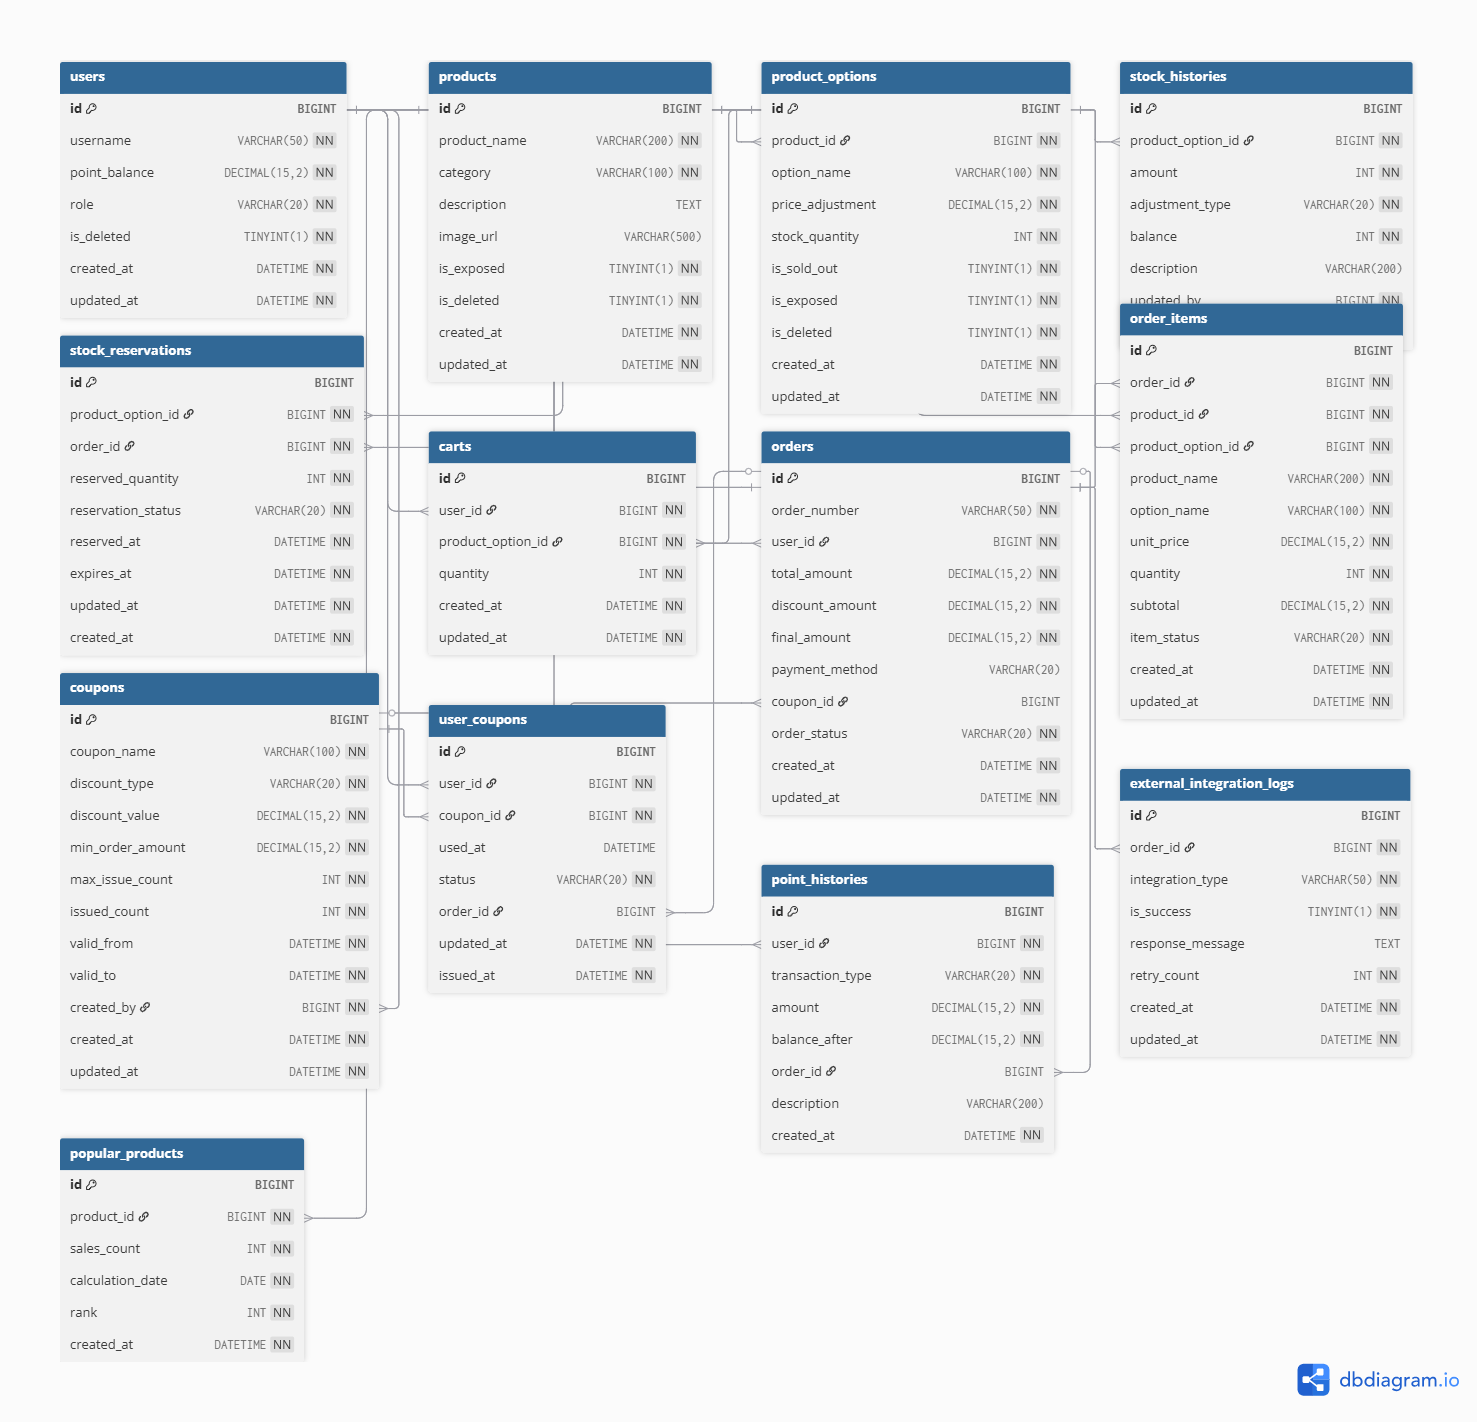
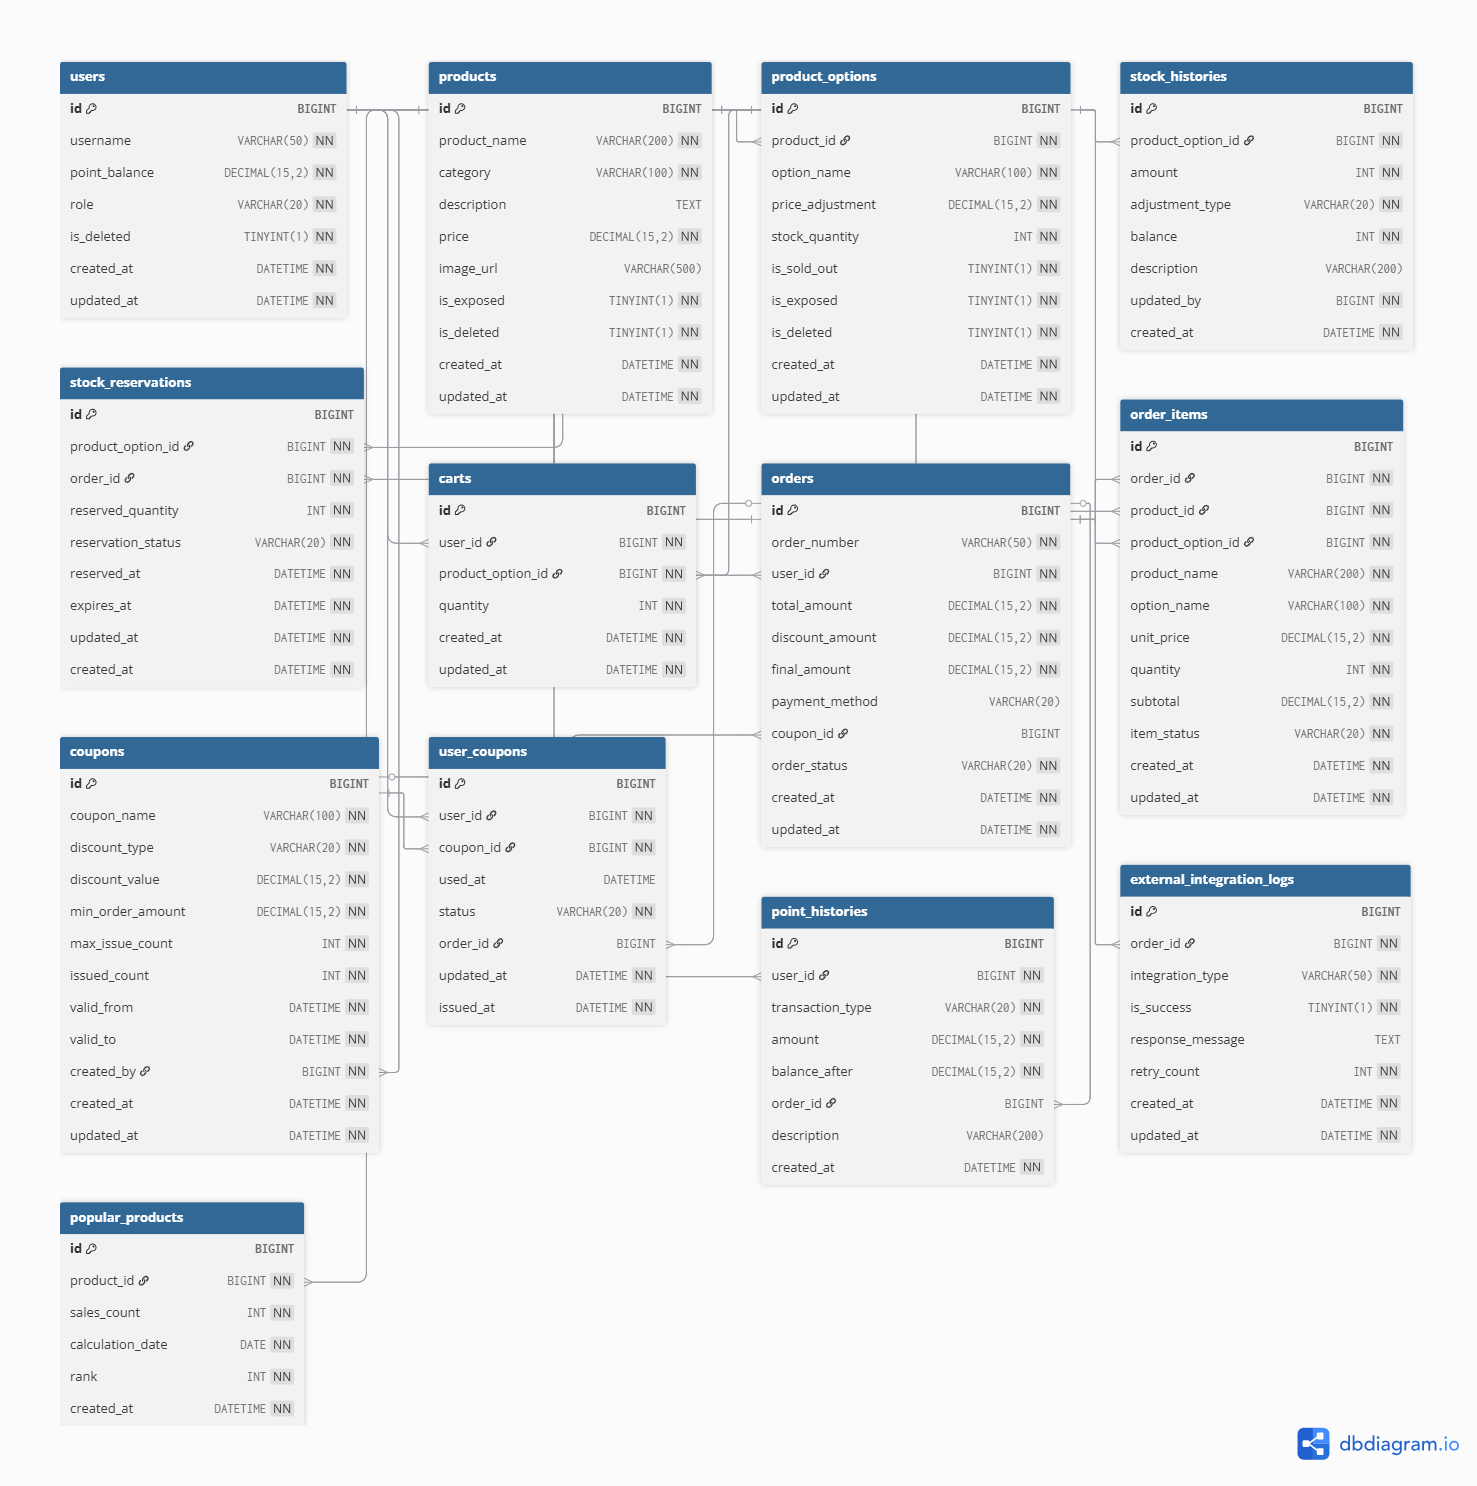
feat : order 도메인에 usedPoint 제거, 금액 관련 Long 타입 -> BigDecimal 타입으로 통일, 구조 변경 시 누락 파일 추가

diff --git a/src/main/java/hhplus/ecommerce/order/application/service/PaymentService.java b/src/main/java/hhplus/ecommerce/order/application/service/PaymentService.java
@@ -7,6 +7,7 @@ import hhplus.ecommerce.order.domain.repository.OrderItemRepository;
 import hhplus.ecommerce.order.domain.repository.OrderRepository;
 import hhplus.ecommerce.order.presentation.dto.request.PaymentRequest;
 import hhplus.ecommerce.order.presentation.dto.response.PaymentResponse;
+import hhplus.ecommerce.order.domain.model.PaymentMethod;
 import hhplus.ecommerce.point.application.service.PointService;
 import hhplus.ecommerce.product.application.service.StockService;
 import hhplus.ecommerce.product.domain.model.StockReservation;
@@ -26,13 +27,13 @@ public class PaymentService {
     private final OrderRepository orderRepository;
     private final OrderItemRepository orderItemRepository;
     private final StockReservationRepository stockReservationRepository;
-    private final PointService pointService;
     private final StockService stockService;
+    private final PointService pointService;
 
     /**
      * 주문 결제
      * @param orderId 주문 ID
-     * @param request 결제 요청 (결제 수단, 사용 포인트)
+     * @param request 결제 요청 (결제 수단)
      * @return 결제 완료 응답
      */
     @Transactional
@@ -51,10 +52,12 @@ public class PaymentService {
             throw OrderException.orderItemsEmpty();
         }
 
-        // 3. 포인트 사용 처리
-        if (request.getUsedPoints() != null && request.getUsedPoints() > 0) {
-            BigDecimal usedPoints = BigDecimal.valueOf(request.getUsedPoints());
-            pointService.usePoint(order.getUserId(), usedPoints, orderId, "주문 결제");
+        // 3. 결제 수단 파싱 및 검증
+        PaymentMethod method;
+        try {
+            method = PaymentMethod.valueOf(request.getPaymentMethod().toUpperCase());
+        } catch (Exception e) {
+            throw OrderException.invalidPaymentMethod(request.getPaymentMethod());
         }
 
         // 4. 재고 예약 확정 (각 주문 항목에 대해)
@@ -67,17 +70,23 @@ public class PaymentService {
             stockService.confirmStockReservation(reservation.getStockReservationId());
         }
 
-        // 5. 주문 상태 업데이트 (PAID)
-        Order paidOrder = order.pay();
+        // 5. 포인트 결제 처리 (필요 시)
+        if (method == PaymentMethod.POINT) {
+            BigDecimal amount = order.getFinalAmount();
+            pointService.usePoint(order.getUserId(), amount, orderId, "주문 결제");
+        }
+
+        // 6. 주문 상태 업데이트 (PAID) 및 결제수단 반영
+        Order paidOrder = order.payWithMethod(method);
         orderRepository.save(paidOrder);
 
-        // 6. 결제 결과 반환
+        // 7. 결제 결과 반환
         return new PaymentResponse(
                 paidOrder.getOrderId(),
                 paidOrder.getOrderNumber(),
                 paidOrder.getOrderStatus(),
-                paidOrder.getFinalAmount().longValue(),
-                request.getPaymentMethod(),
+                paidOrder.getFinalAmount(),
+                method.name(),
                 LocalDateTime.now()
         );
     }

diff --git a/src/main/java/hhplus/ecommerce/coupon/infrastructure/repository/InMemoryUserCouponRepository.java b/src/main/java/hhplus/ecommerce/coupon/infrastructure/repository/InMemoryUserCouponRepository.java
@@ -9,10 +9,12 @@ import java.util.Optional;
 import java.util.concurrent.ConcurrentHashMap;
 import java.util.concurrent.atomic.AtomicInteger;
 import java.util.stream.Collectors;
+import hhplus.ecommerce.coupon.domain.model.UserCouponStatus;
 
 @Repository
 public class InMemoryUserCouponRepository implements UserCouponRepository {
     private final ConcurrentHashMap<Long, UserCoupon> storage = new ConcurrentHashMap<>();
+    private final java.util.concurrent.atomic.AtomicLong sequence = new java.util.concurrent.atomic.AtomicLong(1);
 
     // 쿠폰별 발급 수 관리: Coupon ID -> 발급 수
     private final ConcurrentHashMap<Long, AtomicInteger> issueCountMap = new ConcurrentHashMap<>();
@@ -22,11 +24,33 @@ public class InMemoryUserCouponRepository implements UserCouponRepository {
 
     @Override
     public UserCoupon save(UserCoupon userCoupon) {
-        storage.put(userCoupon.getUserCouponId(), userCoupon);
+        Long id = userCoupon.getUserCouponId();
+        if (id == null) {
+            id = sequence.getAndIncrement();
+            try {
+                java.lang.reflect.Field idField = UserCoupon.class.getDeclaredField("userCouponId");
+                idField.setAccessible(true);
+                idField.set(userCoupon, id);
+            } catch (Exception e) {
+                throw new RuntimeException("Failed to set userCouponId via reflection", e);
+            }
+        }
+        storage.put(id, userCoupon);
 
         // 발급 수 증가
         issueCountMap.computeIfAbsent(userCoupon.getCouponId(), k -> new AtomicInteger(0))
                 .incrementAndGet();
+
+        // 발급 시각(issuedAt) 기본값 설정
+        try {
+            if (userCoupon.getIssuedAt() == null) {
+                java.lang.reflect.Field issuedAtField = UserCoupon.class.getDeclaredField("issuedAt");
+                issuedAtField.setAccessible(true);
+                issuedAtField.set(userCoupon, java.time.LocalDateTime.now());
+            }
+        } catch (Exception e) {
+            throw new RuntimeException("Failed to set issuedAt via reflection", e);
+        }
 
         // 중복 발급 체크 인덱스 업데이트
         String indexKey = buildIndexKey(userCoupon.getUserId(), userCoupon.getCouponId());
@@ -49,10 +73,10 @@ public class InMemoryUserCouponRepository implements UserCouponRepository {
     }
 
     @Override
-    public List<UserCoupon> findByUserIdAndIsUsed(Long userId, Boolean isUsed) {
+    public List<UserCoupon> findByUserIdAndStatus(Long userId, UserCouponStatus status) {
         return storage.values().stream()
                 .filter(userCoupon -> userCoupon.getUserId().equals(userId))
-                .filter(userCoupon -> userCoupon.isUsed() == isUsed)
+                .filter(userCoupon -> userCoupon.getStatus() == status)
                 .sorted((uc1, uc2) -> uc2.getIssuedAt().compareTo(uc1.getIssuedAt())) // 최신순
                 .collect(Collectors.toList());
     }

diff --git a/src/main/java/hhplus/ecommerce/order/application/dto/OrderDetailInfo.java b/src/main/java/hhplus/ecommerce/order/application/dto/OrderDetailInfo.java
@@ -1,0 +1,40 @@
+package hhplus.ecommerce.order.application.dto;
+
+import hhplus.ecommerce.order.domain.model.OrderStatus;
+import lombok.Getter;
+
+import java.math.BigDecimal;
+import java.time.LocalDateTime;
+import java.util.List;
+
+/**
+ * 주문 상세 정보 (Application Layer DTO)
+ * 주문과 주문 아이템 정보를 함께 포함
+ */
+@Getter
+public class OrderDetailInfo {
+    private final Long orderId;
+    private final String orderNumber;
+    private final OrderStatus orderStatus;
+    private final BigDecimal totalAmount;
+    private final BigDecimal discountAmount;
+    private final BigDecimal finalAmount;
+    private final List<OrderItemDetailInfo> orderItems;
+    private final LocalDateTime createdAt;
+    private final LocalDateTime expiresAt;
+
+    public OrderDetailInfo(Long orderId, String orderNumber, OrderStatus orderStatus,
+                          BigDecimal totalAmount, BigDecimal discountAmount, BigDecimal finalAmount,
+                          List<OrderItemDetailInfo> orderItems,
+                          LocalDateTime createdAt, LocalDateTime expiresAt) {
+        this.orderId = orderId;
+        this.orderNumber = orderNumber;
+        this.orderStatus = orderStatus;
+        this.totalAmount = totalAmount;
+        this.discountAmount = discountAmount;
+        this.finalAmount = finalAmount;
+        this.orderItems = orderItems;
+        this.createdAt = createdAt;
+        this.expiresAt = expiresAt;
+    }
+}

diff --git a/src/main/java/hhplus/ecommerce/order/infrastructure/repository/InMemoryOrderRepository.java b/src/main/java/hhplus/ecommerce/order/infrastructure/repository/InMemoryOrderRepository.java
@@ -26,12 +26,19 @@ public class InMemoryOrderRepository implements OrderRepository {
     public Order save(Order order) {
         if (order.getOrderId() == null) {
             Order newOrder = new Order(
-                    sequence.incrementAndGet(), order.getOrderNumber(), order.getUserId(), order.getTotalAmount(),
-                    order.getDiscountAmount(), order.getFinalAmount(), order.getCouponId(),
-                    order.getOrderStatus(), order.getExpiresAt()
+                    sequence.incrementAndGet(),
+                    order.getOrderNumber(),
+                    order.getUserId(),
+                    order.getTotalAmount(),
+                    order.getDiscountAmount(),
+                    order.getFinalAmount(),
+                    order.getCouponId(),
+                    order.getPaymentMethod(),
+                    order.getOrderStatus(),
+                    order.getExpiresAt()
             );
             storage.put(newOrder.getOrderId(), newOrder);
-            orderNumberIndex.put(order.getOrderNumber(), order.getOrderId());
+            orderNumberIndex.put(order.getOrderNumber(), newOrder.getOrderId());
             return newOrder;
         }
 

diff --git a/src/main/java/hhplus/ecommerce/order/application/dto/OrderCreationCommand.java b/src/main/java/hhplus/ecommerce/order/application/dto/OrderCreationCommand.java
@@ -1,0 +1,31 @@
+package hhplus.ecommerce.order.application.dto;
+
+import lombok.Getter;
+
+import java.math.BigDecimal;
+import java.util.List;
+
+/**
+ * 주문 생성 커맨드 (Application Layer DTO)
+ * 주문 생성에 필요한 모든 정보를 담음
+ */
+@Getter
+public class OrderCreationCommand {
+    private final Long userId;
+    private final List<OrderItemInfo> orderItems;
+    private final BigDecimal totalAmount;
+    private final BigDecimal discountAmount;
+    private final Long couponId;
+    private final String orderNumber;
+
+    public OrderCreationCommand(Long userId, List<OrderItemInfo> orderItems,
+                               BigDecimal totalAmount, BigDecimal discountAmount,
+                               Long couponId, String orderNumber) {
+        this.userId = userId;
+        this.orderItems = orderItems;
+        this.totalAmount = totalAmount;
+        this.discountAmount = discountAmount;
+        this.couponId = couponId;
+        this.orderNumber = orderNumber;
+    }
+}

diff --git a/src/main/java/hhplus/ecommerce/order/application/usecase/ChangeOrderStatusUseCase.java b/src/main/java/hhplus/ecommerce/order/application/usecase/ChangeOrderStatusUseCase.java
@@ -55,7 +55,7 @@ public class ChangeOrderStatusUseCase {
                         item.getProductName(),
                         item.getOptionName(),
                         item.getQuantity(),
-                        item.getUnitPrice().longValue(),
+                        item.getUnitPrice(),
                         item.getItemStatus()
                 ))
                 .collect(Collectors.toList());
@@ -64,10 +64,9 @@ public class ChangeOrderStatusUseCase {
                 info.getOrderId(),
                 info.getOrderNumber(),
                 info.getOrderStatus(),
-                info.getTotalAmount().longValue(),
-                info.getDiscountAmount().longValue(),
-                info.getFinalAmount().longValue(),
-                info.getUsedPoints().longValue(),
+                info.getTotalAmount(),
+                info.getDiscountAmount(),
+                info.getFinalAmount(),
                 itemResponses,
                 info.getCreatedAt(),
                 info.getExpiresAt()

diff --git a/src/main/java/hhplus/ecommerce/order/application/usecase/GetOrderDetailUseCase.java b/src/main/java/hhplus/ecommerce/order/application/usecase/GetOrderDetailUseCase.java
@@ -46,7 +46,7 @@ public class GetOrderDetailUseCase {
                         item.getProductName(),
                         item.getOptionName(),
                         item.getQuantity(),
-                        item.getUnitPrice().longValue(),
+                        item.getUnitPrice(),
                         item.getItemStatus()
                 ))
                 .collect(Collectors.toList());
@@ -55,10 +55,9 @@ public class GetOrderDetailUseCase {
                 info.getOrderId(),
                 info.getOrderNumber(),
                 info.getOrderStatus(),
-                info.getTotalAmount().longValue(),
-                info.getDiscountAmount().longValue(),
-                info.getFinalAmount().longValue(),
-                info.getUsedPoints().longValue(),
+                info.getTotalAmount(),
+                info.getDiscountAmount(),
+                info.getFinalAmount(),
                 itemResponses,
                 info.getCreatedAt(),
                 info.getExpiresAt()

diff --git a/src/main/java/hhplus/ecommerce/order/application/dto/OrderItemInfo.java b/src/main/java/hhplus/ecommerce/order/application/dto/OrderItemInfo.java
@@ -1,0 +1,31 @@
+package hhplus.ecommerce.order.application.dto;
+
+import lombok.Getter;
+
+import java.math.BigDecimal;
+
+/**
+ * 주문 아이템 정보 (Application Layer DTO)
+ * UseCase와 Service 간 데이터 전달에 사용
+ */
+@Getter
+public class OrderItemInfo {
+    private final Long productId;
+    private final Long productOptionId;
+    private final String productName;
+    private final String optionName;
+    private final int quantity;
+    private final BigDecimal unitPrice;
+    private final BigDecimal subtotal;
+
+    public OrderItemInfo(Long productId, Long productOptionId, String productName,
+                        String optionName, int quantity, BigDecimal unitPrice, BigDecimal subtotal) {
+        this.productId = productId;
+        this.productOptionId = productOptionId;
+        this.productName = productName;
+        this.optionName = optionName;
+        this.quantity = quantity;
+        this.unitPrice = unitPrice;
+        this.subtotal = subtotal;
+    }
+}

diff --git a/src/main/java/hhplus/ecommerce/order/application/dto/OrderItemDetailInfo.java b/src/main/java/hhplus/ecommerce/order/application/dto/OrderItemDetailInfo.java
@@ -1,0 +1,29 @@
+package hhplus.ecommerce.order.application.dto;
+
+import hhplus.ecommerce.order.domain.model.OrderItemStatus;
+import lombok.Getter;
+
+import java.math.BigDecimal;
+
+/**
+ * 주문 아이템 상세 정보 (Application Layer DTO)
+ */
+@Getter
+public class OrderItemDetailInfo {
+    private final Long orderItemId;
+    private final String productName;
+    private final String optionName;
+    private final int quantity;
+    private final BigDecimal unitPrice;
+    private final OrderItemStatus itemStatus;
+
+    public OrderItemDetailInfo(Long orderItemId, String productName, String optionName,
+                              int quantity, BigDecimal unitPrice, OrderItemStatus itemStatus) {
+        this.orderItemId = orderItemId;
+        this.productName = productName;
+        this.optionName = optionName;
+        this.quantity = quantity;
+        this.unitPrice = unitPrice;
+        this.itemStatus = itemStatus;
+    }
+}

diff --git a/src/main/java/hhplus/ecommerce/order/presentation/dto/response/OrderDetailResponse.java b/src/main/java/hhplus/ecommerce/order/presentation/dto/response/OrderDetailResponse.java
@@ -4,6 +4,7 @@ import hhplus.ecommerce.order.domain.model.OrderStatus;
 import lombok.Getter;
 import lombok.RequiredArgsConstructor;
 
+import java.math.BigDecimal;
 import java.time.LocalDateTime;
 import java.util.List;
 
@@ -13,10 +14,9 @@ public class OrderDetailResponse {
     private final Long orderId;
     private final String orderNumber;
     private final OrderStatus orderStatus;
-    private final Long totalAmount;
-    private final Long discountAmount;
-    private final Long finalAmount;
-    private final Long usedPoints;
+    private final BigDecimal totalAmount;
+    private final BigDecimal discountAmount;
+    private final BigDecimal finalAmount;
     private final List<OrderItemResponse> items;
     private final LocalDateTime createdAt;
     private final LocalDateTime expiresAt;

diff --git a/src/main/java/hhplus/ecommerce/order/presentation/dto/response/OrderCreateResponse.java b/src/main/java/hhplus/ecommerce/order/presentation/dto/response/OrderCreateResponse.java
@@ -4,6 +4,7 @@ import hhplus.ecommerce.order.domain.model.OrderStatus;
 import lombok.Getter;
 import lombok.RequiredArgsConstructor;
 
+import java.math.BigDecimal;
 import java.time.LocalDateTime;
 
 @Getter
@@ -12,9 +13,8 @@ public class OrderCreateResponse {
     private final Long orderId;
     private final String orderNumber;
     private final OrderStatus orderStatus;
-    private final Long totalAmount;
-    private final Long discountAmount;
-    private final Long finalAmount;
-    private final Long usedPoints;
+    private final BigDecimal totalAmount;
+    private final BigDecimal discountAmount;
+    private final BigDecimal finalAmount;
     private final LocalDateTime expiresAt;
 }

diff --git a/src/main/java/hhplus/ecommerce/order/presentation/dto/request/OrderCreateRequest.java b/src/main/java/hhplus/ecommerce/order/presentation/dto/request/OrderCreateRequest.java
@@ -1,7 +1,6 @@
 package hhplus.ecommerce.order.presentation.dto.request;
 
 import jakarta.validation.Valid;
-import jakarta.validation.constraints.Min;
 import jakarta.validation.constraints.NotEmpty;
 import lombok.Getter;
 import lombok.RequiredArgsConstructor;
@@ -15,9 +14,6 @@ public class OrderCreateRequest {
     @NotEmpty(message = "주문 아이템은 필수입니다")
     @Valid
     private List<OrderItemRequest> items;
-
-    @Min(value = 0, message = "사용 포인트는 0 이상이어야 합니다")
-    private Long usedPoints = 0L;
 
     private Long couponId;
 }
